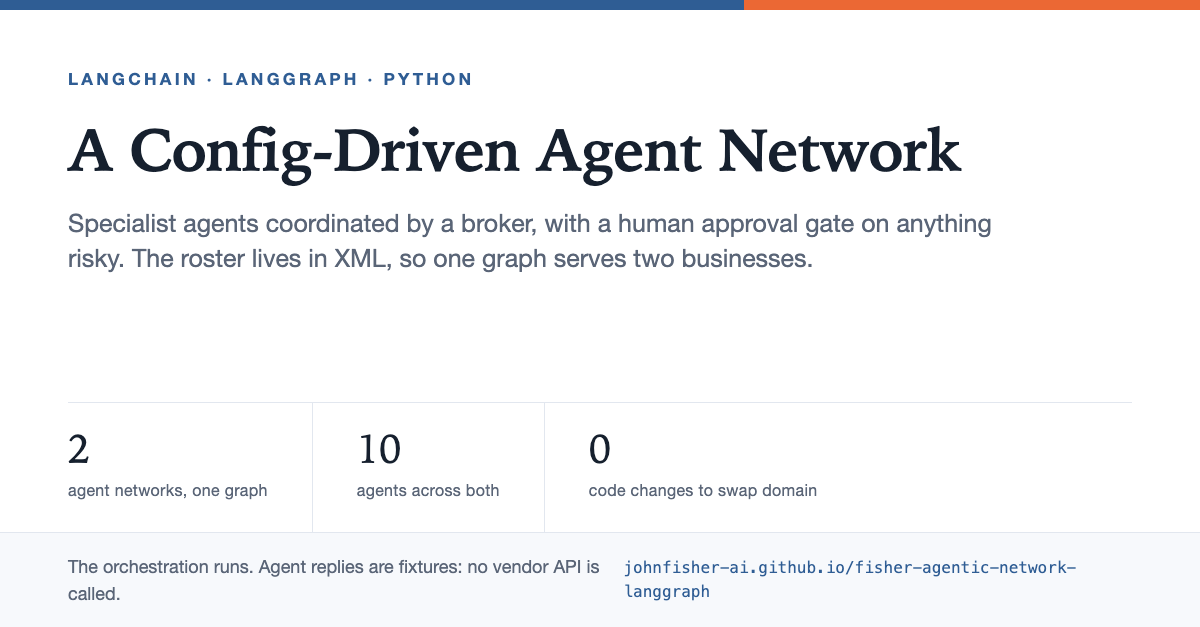
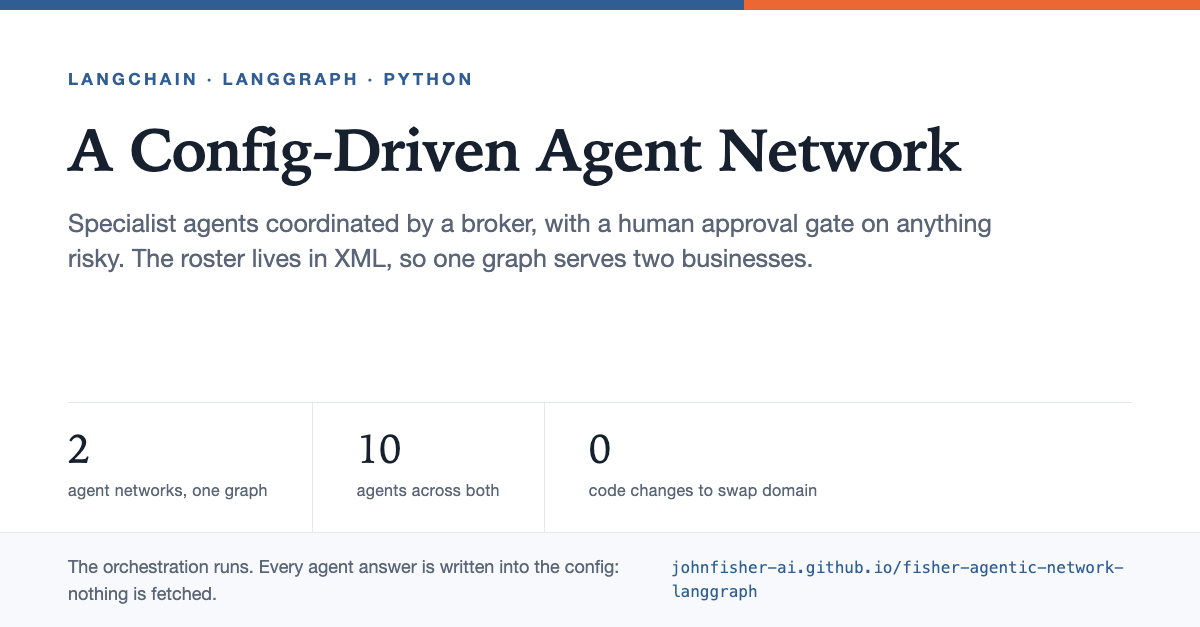
Say it in plain words, and say why it matters
The site used 'fixture' seventeen times. It is testing jargon, and a
reader who does not write tests has no way to guess it. Worse, the code
never used the word: the XML says mock_data, the Python says replies,
and the prose said fixture, so a reader met three names for one thing
and had to reconcile them alone.

The claim now reads that every agent's answer is written into the config
file in advance, and names the mock_data block they will actually see.
Where a short term is still wanted the pages say canned reply, which
needs no glossary.

The callout also now says why. Wired to live systems this network would
read real rates, booking records and guest reviews and forward them to a
language model. With the answers written in advance, the only things
leaving the machine are the typed question and text anyone can read in
the repository, which is also what makes a run repeatable enough to
test with no key and no network.

Applied to all four pages, the README, the social card, two source
docstrings and the diagram label, since the pages quote the source. The
architecture anchor is renamed to match its heading.

Changed region(s): [[0.2158, 0.8788, 0.925, 0.9697], [0.0617, 0.9394, 0.185, 0.9697]]

diff --git a/public/index.html b/public/index.html
@@ -53,12 +53,11 @@
     </div>
 
     <div class="note">
-      <p><strong>What is real, and what is not.</strong> The orchestration runs: the LangGraph state machine, the routing, the synthesis and the human gate all execute against <code>gpt-4o</code>. <strong>Every agent response is a fixture read from the XML.</strong> No vendor API is called, and no MCP server exists.
+      <p><strong>What is real, and what is not.</strong> The orchestration runs: the LangGraph state machine, the routing, the synthesis and the human gate all execute against <code>gpt-4o</code>. <strong>Every agent's answer is written into the config file in advance</strong>, in its <code>&lt;mock_data&gt;</code> block. Nothing is fetched: no vendor API is called, and no MCP server exists.
       The design notes name candidate integrations, rate-shopping feeds, property management
       systems, flight capacity data; none of them are built.</p>
-      <p>That is deliberate. Canned agent replies keep the demo deterministic and nearly free to
-      run, so the orchestration is the thing under examination rather than five integrations.
-      This is a study of a pattern, not a product, and nothing here evidences a business
+      <p>That is a data-protection decision before it is a convenience one. Wired to live systems, a network like this would read real rates, booking records and guest reviews, and forward whatever it found to a language model. With every answer written in advance, the only things that leave your machine are the question you type and text you can read in this repository. It also makes a run repeatable, which is what lets the test suite exercise the real graph with no key, no network and nothing spent.</p>
+      <p>This is a study of a pattern, not a product, and nothing here evidences a business
       outcome.</p>
     </div>
   </section>
@@ -72,11 +71,11 @@
     agent could have reached alone, and it scores the risk of its own recommendation.</p>
 
     <figure>
-      <div class="figbox"><svg class="fig diagram" viewBox="0 0 780 500" role="img" aria-label="One question through the network. The broker decides who to consult, waits, synthesises, and scores the risk of its own recommendation."><defs><marker id="ah" viewBox="0 0 10 10" refX="9" refY="5" markerWidth="6" markerHeight="6" orient="auto-start-reverse"><path class="ahead" d="M 0 0 L 10 5 L 0 10 z"/></marker></defs><text class="ttl" x="0" y="16">One question through the network</text><text class="sub" x="0" y="33">The broker decides who to consult, waits, synthesises, and scores the risk of its own recommendation.</text><rect class="node soft" x="320.0" y="52" width="140" height="30" rx="8"/><text class="lab bold" x="390.0" y="71.0" text-anchor="middle">a question</text><line class="flow" x1="390.0" y1="82" x2="390.0" y2="100" marker-end="url(#ah)"/><rect class="node lead" x="260.0" y="102" width="260" height="44" rx="8"/><text class="lab bold" x="390.0" y="121.0" text-anchor="middle">BROKER</text><text class="ax" x="390.0" y="136.0" text-anchor="middle">decides who to consult</text><line class="flow" x1="390.0" y1="146" x2="130.0" y2="204" marker-end="url(#ah)"/><rect class="node" x="70.0" y="206" width="120" height="46" rx="8"/><text class="lab bold" x="130.0" y="226.0" text-anchor="middle">Market Scout</text><text class="ax" x="130.0" y="241.0" text-anchor="middle">events, weather</text><line class="flow" x1="130.0" y1="252" x2="390.0" y2="294" marker-end="url(#ah)"/><line class="flow" x1="390.0" y1="146" x2="260.0" y2="204" marker-end="url(#ah)"/><rect class="node" x="200.0" y="206" width="120" height="46" rx="8"/><text class="lab bold" x="260.0" y="226.0" text-anchor="middle">Revenue</text><text class="ax" x="260.0" y="241.0" text-anchor="middle">pricing, rates</text><line class="flow" x1="260.0" y1="252" x2="390.0" y2="294" marker-end="url(#ah)"/><line class="flow" x1="390.0" y1="146" x2="390.0" y2="204" marker-end="url(#ah)"/><rect class="node" x="330.0" y="206" width="120" height="46" rx="8"/><text class="lab bold" x="390.0" y="226.0" text-anchor="middle">Content</text><text class="ax" x="390.0" y="241.0" text-anchor="middle">listing quality</text><line class="flow" x1="390.0" y1="252" x2="390.0" y2="294" marker-end="url(#ah)"/><line class="flow" x1="390.0" y1="146" x2="520.0" y2="204" marker-end="url(#ah)"/><rect class="node" x="460.0" y="206" width="120" height="46" rx="8"/><text class="lab bold" x="520.0" y="226.0" text-anchor="middle">Guest Exp.</text><text class="ax" x="520.0" y="241.0" text-anchor="middle">reviews</text><line class="flow" x1="520.0" y1="252" x2="390.0" y2="294" marker-end="url(#ah)"/><line class="flow" x1="390.0" y1="146" x2="650.0" y2="204" marker-end="url(#ah)"/><rect class="node" x="590.0" y="206" width="120" height="46" rx="8"/><text class="lab bold" x="650.0" y="226.0" text-anchor="middle">Facilities</text><text class="ax" x="650.0" y="241.0" text-anchor="middle">maintenance</text><line class="flow" x1="650.0" y1="252" x2="390.0" y2="294" marker-end="url(#ah)"/><text class="ax" x="390.0" y="274" text-anchor="middle">the specialists run in parallel, each returning its fixture</text><rect class="node lead" x="260.0" y="296" width="260" height="44" rx="8"/><text class="lab bold" x="390.0" y="315.0" text-anchor="middle">BROKER</text><text class="ax" x="390.0" y="330.0" text-anchor="middle">synthesises, scores risk</text><line class="flow" x1="390.0" y1="340" x2="390.0" y2="364" marker-end="url(#ah)"/><text class="ax" x="400.0" y="358">risk rule fires?</text><path class="flow" d="M 390 364 L 250 364 L 250 424" marker-end="url(#ah)"/><text class="ax" x="256" y="380">no</text><path class="flow" d="M 390 364 L 530 364 L 530 376" marker-end="url(#ah)"/><text class="ax" x="536" y="380">yes</text><rect class="node gate" x="440" y="378" width="180" height="32" rx="8"/><text class="lab bold" x="530.0" y="398.0" text-anchor="middle">HUMAN APPROVAL</text><path class="flow" d="M 530 410 L 530 439 L 322 439" marker-end="url(#ah)"/><text class="ax" x="530" y="468" text-anchor="middle">the approved text is returned verbatim</text><rect class="node soft" x="190" y="424" width="130" height="30" rx="8"/><text class="lab bold" x="255.0" y="443.0" text-anchor="middle">the answer</text></svg></div>
+      <div class="figbox"><svg class="fig diagram" viewBox="0 0 780 500" role="img" aria-label="One question through the network. The broker decides who to consult, waits, synthesises, and scores the risk of its own recommendation."><defs><marker id="ah" viewBox="0 0 10 10" refX="9" refY="5" markerWidth="6" markerHeight="6" orient="auto-start-reverse"><path class="ahead" d="M 0 0 L 10 5 L 0 10 z"/></marker></defs><text class="ttl" x="0" y="16">One question through the network</text><text class="sub" x="0" y="33">The broker decides who to consult, waits, synthesises, and scores the risk of its own recommendation.</text><rect class="node soft" x="320.0" y="52" width="140" height="30" rx="8"/><text class="lab bold" x="390.0" y="71.0" text-anchor="middle">a question</text><line class="flow" x1="390.0" y1="82" x2="390.0" y2="100" marker-end="url(#ah)"/><rect class="node lead" x="260.0" y="102" width="260" height="44" rx="8"/><text class="lab bold" x="390.0" y="121.0" text-anchor="middle">BROKER</text><text class="ax" x="390.0" y="136.0" text-anchor="middle">decides who to consult</text><line class="flow" x1="390.0" y1="146" x2="130.0" y2="204" marker-end="url(#ah)"/><rect class="node" x="70.0" y="206" width="120" height="46" rx="8"/><text class="lab bold" x="130.0" y="226.0" text-anchor="middle">Market Scout</text><text class="ax" x="130.0" y="241.0" text-anchor="middle">events, weather</text><line class="flow" x1="130.0" y1="252" x2="390.0" y2="294" marker-end="url(#ah)"/><line class="flow" x1="390.0" y1="146" x2="260.0" y2="204" marker-end="url(#ah)"/><rect class="node" x="200.0" y="206" width="120" height="46" rx="8"/><text class="lab bold" x="260.0" y="226.0" text-anchor="middle">Revenue</text><text class="ax" x="260.0" y="241.0" text-anchor="middle">pricing, rates</text><line class="flow" x1="260.0" y1="252" x2="390.0" y2="294" marker-end="url(#ah)"/><line class="flow" x1="390.0" y1="146" x2="390.0" y2="204" marker-end="url(#ah)"/><rect class="node" x="330.0" y="206" width="120" height="46" rx="8"/><text class="lab bold" x="390.0" y="226.0" text-anchor="middle">Content</text><text class="ax" x="390.0" y="241.0" text-anchor="middle">listing quality</text><line class="flow" x1="390.0" y1="252" x2="390.0" y2="294" marker-end="url(#ah)"/><line class="flow" x1="390.0" y1="146" x2="520.0" y2="204" marker-end="url(#ah)"/><rect class="node" x="460.0" y="206" width="120" height="46" rx="8"/><text class="lab bold" x="520.0" y="226.0" text-anchor="middle">Guest Exp.</text><text class="ax" x="520.0" y="241.0" text-anchor="middle">reviews</text><line class="flow" x1="520.0" y1="252" x2="390.0" y2="294" marker-end="url(#ah)"/><line class="flow" x1="390.0" y1="146" x2="650.0" y2="204" marker-end="url(#ah)"/><rect class="node" x="590.0" y="206" width="120" height="46" rx="8"/><text class="lab bold" x="650.0" y="226.0" text-anchor="middle">Facilities</text><text class="ax" x="650.0" y="241.0" text-anchor="middle">maintenance</text><line class="flow" x1="650.0" y1="252" x2="390.0" y2="294" marker-end="url(#ah)"/><text class="ax" x="390.0" y="274" text-anchor="middle">the specialists run in parallel, each returning its canned reply</text><rect class="node lead" x="260.0" y="296" width="260" height="44" rx="8"/><text class="lab bold" x="390.0" y="315.0" text-anchor="middle">BROKER</text><text class="ax" x="390.0" y="330.0" text-anchor="middle">synthesises, scores risk</text><line class="flow" x1="390.0" y1="340" x2="390.0" y2="364" marker-end="url(#ah)"/><text class="ax" x="400.0" y="358">risk rule fires?</text><path class="flow" d="M 390 364 L 250 364 L 250 424" marker-end="url(#ah)"/><text class="ax" x="256" y="380">no</text><path class="flow" d="M 390 364 L 530 364 L 530 376" marker-end="url(#ah)"/><text class="ax" x="536" y="380">yes</text><rect class="node gate" x="440" y="378" width="180" height="32" rx="8"/><text class="lab bold" x="530.0" y="398.0" text-anchor="middle">HUMAN APPROVAL</text><path class="flow" d="M 530 410 L 530 439 L 322 439" marker-end="url(#ah)"/><text class="ax" x="530" y="468" text-anchor="middle">the approved text is returned verbatim</text><rect class="node soft" x="190" y="424" width="130" height="30" rx="8"/><text class="lab bold" x="255.0" y="443.0" text-anchor="middle">the answer</text></svg></div>
       <figcaption>Figure 1. The broker fans out to the specialists it selected, fans back in, and
       routes to a human only when its own risk rule fires. Two calls to the model per question,
-      one to route and one to synthesise; the specialists cost nothing because their answers are
-      fixtures.</figcaption>
+      one to route and one to synthesise; the specialists cost nothing, because their answers were
+      written in advance.</figcaption>
     </figure>
   </section>
 

diff --git a/public/code.html b/public/code.html
@@ -44,19 +44,17 @@
     does not know which domain it is running.</p>
 
     <div class="note">
-      <p><strong>What is real, and what is not.</strong> The orchestration runs: the LangGraph state machine, the routing, the synthesis and the human gate all execute against <code>gpt-4o</code>. <strong>Every agent response is a fixture read from the XML.</strong> No vendor API is called, and no MCP server exists.
-      Every <code>response</code> element you see below is canned text, not a call. That keeps
-      the demo deterministic and nearly free to run, and it means the seam where a real
-      integration would attach is a single method,
-      <code>Agent.reply_for</code>.</p>
+      <p><strong>What is real, and what is not.</strong> The orchestration runs: the LangGraph state machine, the routing, the synthesis and the human gate all execute against <code>gpt-4o</code>. <strong>Every agent's answer is written into the config file in advance</strong>, in its <code>&lt;mock_data&gt;</code> block. Nothing is fetched: no vendor API is called, and no MCP server exists.
+      Every <code>response</code> element below is text somebody typed, not a call.</p>
+      <p>That is a data-protection decision before it is a convenience one. Wired to live systems, a network like this would read real rates, booking records and guest reviews, and forward whatever it found to a language model. With every answer written in advance, the only things that leave your machine are the question you type and text you can read in this repository. It also makes a run repeatable, which is what lets the test suite exercise the real graph with no key, no network and nothing spent.</p>
     </div>
 
     <div class="scroll">
       <table class="stats">
         <thead><tr><th>File</th><th class="num">Lines</th><th>What it does</th></tr></thead>
-        <tbody><tr><td class="item"><code>agentic_network/config.py</code></td><td class="num">119</td><td>Parses a config into dataclasses and picks a scenario.</td></tr><tr><td class="item"><code>agentic_network/graph.py</code></td><td class="num">197</td><td>Builds and compiles the state machine. The core.</td></tr><tr><td class="item"><code>agentic_network/channels.py</code></td><td class="num">108</td><td>Where output goes and where human answers come from.</td></tr><tr><td class="item"><code>agentic_network/cli.py</code></td><td class="num">67</td><td>Headless entry point. What the notebook and Colab use.</td></tr><tr><td class="item"><code>agentic_network/gui.py</code></td><td class="num">204</td><td>The tkinter desktop client.</td></tr><tr><td class="item"><code>agentic_network/__init__.py</code></td><td class="num">22</td><td>The public surface: three names.</td></tr><tr><td class="item"><code>tests/test_network.py</code></td><td class="num">112</td><td>Nineteen checks against a stub model. No key needed.</td></tr><tr><td class="item"><code>config/config_travel.xml</code></td><td class="num">105</td><td>The travel partner network.</td></tr><tr><td class="item"><code>config/config_agency.xml</code></td><td class="num">114</td><td>The consulting firm.</td></tr></tbody>
+        <tbody><tr><td class="item"><code>agentic_network/config.py</code></td><td class="num">120</td><td>Parses a config into dataclasses and picks a scenario.</td></tr><tr><td class="item"><code>agentic_network/graph.py</code></td><td class="num">197</td><td>Builds and compiles the state machine. The core.</td></tr><tr><td class="item"><code>agentic_network/channels.py</code></td><td class="num">108</td><td>Where output goes and where human answers come from.</td></tr><tr><td class="item"><code>agentic_network/cli.py</code></td><td class="num">67</td><td>Headless entry point. What the notebook and Colab use.</td></tr><tr><td class="item"><code>agentic_network/gui.py</code></td><td class="num">204</td><td>The tkinter desktop client.</td></tr><tr><td class="item"><code>agentic_network/__init__.py</code></td><td class="num">22</td><td>The public surface: three names.</td></tr><tr><td class="item"><code>tests/test_network.py</code></td><td class="num">112</td><td>Nineteen checks against a stub model. No key needed.</td></tr><tr><td class="item"><code>config/config_travel.xml</code></td><td class="num">105</td><td>The travel partner network.</td></tr><tr><td class="item"><code>config/config_agency.xml</code></td><td class="num">114</td><td>The consulting firm.</td></tr></tbody>
         <tfoot><tr><td class="item"><strong>Total</strong></td>
-          <td class="num"><strong>1048</strong></td><td></td></tr></tfoot>
+          <td class="num"><strong>1049</strong></td><td></td></tr></tfoot>
       </table>
     </div>
   </section>
@@ -64,7 +62,7 @@
   <section>
     <h2>What a config declares</h2>
     <p>Four things: the prompt the broker routes with, the prompt it synthesises and scores risk
-    with, the scenarios that select which fixture each agent returns, and the agents
+    with, the scenarios that select which reply each agent returns, and the agents
     themselves.</p>
 
     <div class="codewrap"><div class="head"><code>config/config_travel.xml</code><span>one agent</span></div><pre class="code"><span class="sas-k">&lt;agent</span> <span class="sas-p">id</span>=<span class="sas-s">&quot;revenue_strategist&quot;</span> <span class="sas-p">name</span>=<span class="sas-s">&quot;Revenue Strategist&quot;</span><span class="sas-k">&gt;</span>
@@ -80,7 +78,7 @@
 
     <p>The <code>description</code> is the only thing the broker sees when it decides who to
     consult, so it is doing real work despite being three words. Each
-    <code>response</code> is the fixture that agent returns for one scenario, and
+    <code>response</code> is the reply that agent gives for one scenario, and
     <code>default</code> covers anything unmatched.</p>
 
     <p>Scenarios are keyword lists. A question is tested against them in document order and the
@@ -128,7 +126,7 @@
               <td>Market Intelligence Analyst<br>Financial Modeler<br>Organizational Strategist<br>Operations Specialist<br>Risk & Compliance Officer</td></tr>
           <tr><td class="item">Scenarios</td>
               <td>5</td><td>5</td></tr>
-          <tr><td class="item">Fixtures</td>
+          <tr><td class="item">Canned replies</td>
               <td>25</td>
               <td>25</td></tr>
           <tr><td class="item">Lines of Python that differ</td>
@@ -409,7 +407,7 @@ Shape of a run:
 
     user question
         -&gt; broker            decides which specialists to consult
-        -&gt; specialists       fan out in parallel, each returns its fixture
+        -&gt; specialists       fan out in parallel, each returns its canned reply
         -&gt; broker            synthesises one answer and scores its risk
         -&gt; human_approval    only when the risk score says so
         -&gt; END
@@ -600,7 +598,7 @@ Every node is generated from the config, so the roster is data rather than code.
         channel.log(<span class="sas-s">&quot;router named no valid agents; falling back.&quot;</span>)
         <span class="sas-k">return</span> fallback
     <span class="sas-k">return</span> known</pre></div></details>
-    <details class="src"><summary>agentic_network/config.py, 119 lines</summary><div class="codewrap"><div class="head"><code>agentic_network/config.py</code></div><pre class="code clip"><span class="sas-s">&quot;&quot;&quot;Load an agent network definition from XML.
+    <details class="src"><summary>agentic_network/config.py, 120 lines</summary><div class="codewrap"><div class="head"><code>agentic_network/config.py</code></div><pre class="code clip"><span class="sas-s">&quot;&quot;&quot;Load an agent network definition from XML.
 
 One XML file describes a whole network: the prompt the broker uses to route, the
 prompt it uses to synthesise, the demo scenarios, and for each agent its identity,
@@ -626,9 +624,10 @@ its advertised capability and its canned reply per scenario.
     replies: <span class="sas-p">dict</span>[<span class="sas-p">int</span>, <span class="sas-p">str</span>] = field(default_factory=<span class="sas-p">dict</span>)
 
     <span class="sas-k">def</span> reply_for(<span class="sas-p">self</span>, scenario_id: <span class="sas-p">int</span>) -&gt; <span class="sas-p">str</span>:
-        <span class="sas-s">&quot;&quot;&quot;The fixture this agent returns for a scenario.
+        <span class="sas-s">&quot;&quot;&quot;The canned reply this agent gives for a scenario.
 
-        Every reply is canned. No agent calls a real API; see the project README.
+        Every reply is written into the config in advance. No agent calls a real
+        API, so no live business data passes through this network.
         &quot;&quot;&quot;</span>
         <span class="sas-k">return</span> <span class="sas-p">self</span>.replies.get(scenario_id, <span class="sas-p">self</span>.default_reply)
 

diff --git a/public/architecture.html b/public/architecture.html
@@ -46,11 +46,12 @@
     the difference.</p>
 
     <div class="note">
-      <p><strong>What is real, and what is not.</strong> The orchestration runs: the LangGraph state machine, the routing, the synthesis and the human gate all execute against <code>gpt-4o</code>. <strong>Every agent response is a fixture read from the XML.</strong> No vendor API is called, and no MCP server exists.
+      <p><strong>What is real, and what is not.</strong> The orchestration runs: the LangGraph state machine, the routing, the synthesis and the human gate all execute against <code>gpt-4o</code>. <strong>Every agent's answer is written into the config file in advance</strong>, in its <code>&lt;mock_data&gt;</code> block. Nothing is fetched: no vendor API is called, and no MCP server exists.
       Every specialist node on this page does one thing: it looks up a string in the config and
       returns it. The seam where a live integration would attach is
-      <a href="#fixtures"><code>Agent.reply_for</code></a>, and nothing above it, not the graph,
+      <a href="#answers"><code>Agent.reply_for</code></a>, and nothing above it, not the graph,
       not the routing, not the gate, would need to change.</p>
+      <p>That is a data-protection decision before it is a convenience one. Wired to live systems, a network like this would read real rates, booking records and guest reviews, and forward whatever it found to a language model. With every answer written in advance, the only things that leave your machine are the question you type and text you can read in this repository. It also makes a run repeatable, which is what lets the test suite exercise the real graph with no key, no network and nothing spent.</p>
     </div>
   </section>
 
@@ -81,8 +82,8 @@
   <section>
     <h2>Nodes are generated, not written</h2>
     <p>Each agent in the config becomes a node through a closure that captures its own
-    definition. The node itself does almost nothing: it looks up the fixture for the current
-    scenario and returns it under the agent's name.</p>
+    definition. The node itself does almost nothing: it looks up the canned reply for the
+    current scenario and returns it under the agent's name.</p>
 
     <pre class="code"><span class="sas-k">def</span> specialist(agent_id: <span class="sas-p">str</span>):
     agent = config.agents[agent_id]
@@ -158,7 +159,7 @@ graph.add_edge(<span class="sas-s">&quot;human_approval&quot;</span>, END)</pre>
 
   <section>
     <h2>Scenario selection</h2>
-    <p>Which fixture an agent returns depends on the scenario, matched by keyword against the
+    <p>Which canned reply an agent returns depends on the scenario, matched by keyword against the
     question. It is the least clever part of the system and the place where
     imprecision is hardest to notice.</p>
 
@@ -262,11 +263,11 @@ graph.add_edge(<span class="sas-s">&quot;human_approval&quot;</span>, END)</pre>
     gate, so the test suite asserts that the proposal text survives verbatim into the final
     output, and that synthesis runs exactly once.</p>
 
-  <section id="fixtures">
-    <h2>Where the fixtures sit</h2>
+  <section id="answers">
+    <h2>Where the canned answers sit</h2>
     <p>Each agent carries a default reply and one per scenario. The node returns a string; it
-    never parses it. The model receives the fixtures as text and does the interpreting, which is
-    why a fixture can be JSON-shaped without being contractually JSON.</p>
+    never parses it. The model receives these as text and does the interpreting, which is
+    why a reply can be JSON-shaped without being contractually JSON.</p>
 
     <pre class="code"><span class="sas-k">&lt;agent</span> <span class="sas-p">id</span>=<span class="sas-s">&quot;market_scout&quot;</span> <span class="sas-p">name</span>=<span class="sas-s">&quot;Market Scout&quot;</span><span class="sas-k">&gt;</span>
     <span class="sas-k">&lt;description</span><span class="sas-k">&gt;</span>events, weather<span class="sas-k">&lt;/description</span><span class="sas-k">&gt;</span>
@@ -284,9 +285,10 @@ graph.add_edge(<span class="sas-s">&quot;human_approval&quot;</span>, END)</pre>
     something else. Nothing above it changes: not the graph, not the routing, not the gate.</p>
 
     <pre class="code"><span class="sas-k">def</span> reply_for(<span class="sas-p">self</span>, scenario_id: <span class="sas-p">int</span>) -&gt; <span class="sas-p">str</span>:
-    <span class="sas-s">&quot;&quot;&quot;The fixture this agent returns for a scenario.
+    <span class="sas-s">&quot;&quot;&quot;The canned reply this agent gives for a scenario.
 
-    Every reply is canned. No agent calls a real API; see the project README.
+    Every reply is written into the config in advance. No agent calls a real
+    API, so no live business data passes through this network.
     &quot;&quot;&quot;</span>
     <span class="sas-k">return</span> <span class="sas-p">self</span>.replies.get(scenario_id, <span class="sas-p">self</span>.default_reply)</pre>
   </section>

diff --git a/public/run.html b/public/run.html
@@ -93,8 +93,9 @@ PASS - the new key works.</pre></div>
     <h2>What it costs</h2>
     <p>Two calls to <code>gpt-4o</code> per question: one to choose which specialists to
     consult, one to synthesise their findings and score the risk. A fraction of a cent.</p>
-    <p>The specialists themselves cost nothing. Their answers are fixtures read from the config
-    file, so the number of agents consulted does not change the bill.</p>
+    <p>The specialists themselves cost nothing. Their answers come from the config file, so the number
+    of agents consulted does not change the bill, and nothing about your question or their
+    data reaches any service other than OpenAI.</p>
   </section>
 
   <section>

diff --git a/tools/build_architecture.py b/tools/build_architecture.py
@@ -56,8 +56,9 @@ def build():
       <p><strong>What is real, and what is not.</strong> {page.FIXTURES}
       Every specialist node on this page does one thing: it looks up a string in the config and
       returns it. The seam where a live integration would attach is
-      <a href="#fixtures"><code>Agent.reply_for</code></a>, and nothing above it, not the graph,
+      <a href="#answers"><code>Agent.reply_for</code></a>, and nothing above it, not the graph,
       not the routing, not the gate, would need to change.</p>
+      <p>{page.WHY}</p>
     </div>
   </section>
 
@@ -79,8 +80,8 @@ def build():
   <section>
     <h2>Nodes are generated, not written</h2>
     <p>Each agent in the config becomes a node through a closure that captures its own
-    definition. The node itself does almost nothing: it looks up the fixture for the current
-    scenario and returns it under the agent's name.</p>
+    definition. The node itself does almost nothing: it looks up the canned reply for the
+    current scenario and returns it under the agent's name.</p>
 
     {py(excerpt.named("agentic_network/graph.py", "build_network", inner="specialist"))}
 
@@ -117,7 +118,7 @@ def build():
 
   <section>
     <h2>Scenario selection</h2>
-    <p>Which fixture an agent returns depends on the scenario, matched by keyword against the
+    <p>Which canned reply an agent returns depends on the scenario, matched by keyword against the
     question. It is the least clever part of the system and the place where
     imprecision is hardest to notice.</p>
 
@@ -174,11 +175,11 @@ def build():
     gate, so the test suite asserts that the proposal text survives verbatim into the final
     output, and that synthesis runs exactly once.</p>
 
-  <section id="fixtures">
-    <h2>Where the fixtures sit</h2>
+  <section id="answers">
+    <h2>Where the canned answers sit</h2>
     <p>Each agent carries a default reply and one per scenario. The node returns a string; it
-    never parses it. The model receives the fixtures as text and does the interpreting, which is
-    why a fixture can be JSON-shaped without being contractually JSON.</p>
+    never parses it. The model receives these as text and does the interpreting, which is
+    why a reply can be JSON-shaped without being contractually JSON.</p>
 
     {xm(excerpt.xml_element("config/config_travel.xml", "agent", "id", "market_scout"))}
 

diff --git a/tools/build_code.py b/tools/build_code.py
@@ -71,10 +71,8 @@ def build():
 
     <div class="note">
       <p><strong>What is real, and what is not.</strong> {page.FIXTURES}
-      Every <code>response</code> element you see below is canned text, not a call. That keeps
-      the demo deterministic and nearly free to run, and it means the seam where a real
-      integration would attach is a single method,
-      <code>Agent.reply_for</code>.</p>
+      Every <code>response</code> element below is text somebody typed, not a call.</p>
+      <p>{page.WHY}</p>
     </div>
 
     <div class="scroll">
@@ -90,7 +88,7 @@ def build():
   <section>
     <h2>What a config declares</h2>
     <p>Four things: the prompt the broker routes with, the prompt it synthesises and scores risk
-    with, the scenarios that select which fixture each agent returns, and the agents
+    with, the scenarios that select which reply each agent returns, and the agents
     themselves.</p>
 
     {hl.wrap(excerpt.xml_element("config/config_travel.xml", "agent", "id", "revenue_strategist"),
@@ -98,7 +96,7 @@ def build():
 
     <p>The <code>description</code> is the only thing the broker sees when it decides who to
     consult, so it is doing real work despite being three words. Each
-    <code>response</code> is the fixture that agent returns for one scenario, and
+    <code>response</code> is the reply that agent gives for one scenario, and
     <code>default</code> covers anything unmatched.</p>
 
     <p>Scenarios are keyword lists. A question is tested against them in document order and the
@@ -124,7 +122,7 @@ def build():
               <td>{"<br>".join(a.name for a in AGENCY.agents.values())}</td></tr>
           <tr><td class="item">Scenarios</td>
               <td>{len(TRAVEL.scenarios)}</td><td>{len(AGENCY.scenarios)}</td></tr>
-          <tr><td class="item">Fixtures</td>
+          <tr><td class="item">Canned replies</td>
               <td>{sum(len(a.replies) for a in TRAVEL.agents.values())}</td>
               <td>{sum(len(a.replies) for a in AGENCY.agents.values())}</td></tr>
           <tr><td class="item">Lines of Python that differ</td>

diff --git a/tools/page.py b/tools/page.py
@@ -11,8 +11,16 @@ SITE = "https://johnfisher-ai.github.io/fisher-agentic-network-langgraph"
 REPO = "https://github.com/johnfisher-ai/fisher-agentic-network-langgraph"
 FIXTURES = ("The orchestration runs: the LangGraph state machine, the routing, the synthesis "
             "and the human gate all execute against <code>gpt-4o</code>. "
-            "<strong>Every agent response is a fixture read from the XML.</strong> "
-            "No vendor API is called, and no MCP server exists.")
+            "<strong>Every agent's answer is written into the config file in advance</strong>, "
+            "in its <code>&lt;mock_data&gt;</code> block. Nothing is fetched: no vendor API is "
+            "called, and no MCP server exists.")
+
+WHY = ("That is a data-protection decision before it is a convenience one. Wired to live "
+       "systems, a network like this would read real rates, booking records and guest reviews, "
+       "and forward whatever it found to a language model. With every answer written in "
+       "advance, the only things that leave your machine are the question you type and text you "
+       "can read in this repository. It also makes a run repeatable, which is what lets the "
+       "test suite exercise the real graph with no key, no network and nothing spent.")
 
 COLAB = ("https://colab.research.google.com/github/johnfisher-ai/"
          "fisher-agentic-network-langgraph/blob/main/notebooks/agentic_network.ipynb")

diff --git a/tools/build_index.py b/tools/build_index.py
@@ -102,9 +102,8 @@ def build():
       <p><strong>What is real, and what is not.</strong> {page.FIXTURES}
       The design notes name candidate integrations, rate-shopping feeds, property management
       systems, flight capacity data; none of them are built.</p>
-      <p>That is deliberate. Canned agent replies keep the demo deterministic and nearly free to
-      run, so the orchestration is the thing under examination rather than five integrations.
-      This is a study of a pattern, not a product, and nothing here evidences a business
+      <p>{page.WHY}</p>
+      <p>This is a study of a pattern, not a product, and nothing here evidences a business
       outcome.</p>
     </div>
   </section>
@@ -121,8 +120,8 @@ def build():
       <div class="figbox">{d}</div>
       <figcaption>Figure 1. The broker fans out to the specialists it selected, fans back in, and
       routes to a human only when its own risk rule fires. Two calls to the model per question,
-      one to route and one to synthesise; the specialists cost nothing because their answers are
-      fixtures.</figcaption>
+      one to route and one to synthesise; the specialists cost nothing, because their answers were
+      written in advance.</figcaption>
     </figure>
   </section>
 

diff --git a/tools/build_run.py b/tools/build_run.py
@@ -101,8 +101,9 @@ PASS - the new key works.''', name="output")}
     <h2>What it costs</h2>
     <p>Two calls to <code>gpt-4o</code> per question: one to choose which specialists to
     consult, one to synthesise their findings and score the risk. A fraction of a cent.</p>
-    <p>The specialists themselves cost nothing. Their answers are fixtures read from the config
-    file, so the number of agents consulted does not change the bill.</p>
+    <p>The specialists themselves cost nothing. Their answers come from the config file, so the number
+    of agents consulted does not change the bill, and nothing about your question or their
+    data reaches any service other than OpenAI.</p>
   </section>
 
   <section>

diff --git a/agentic_network/config.py b/agentic_network/config.py
@@ -24,9 +24,10 @@ class Agent:
     replies: dict[int, str] = field(default_factory=dict)
 
     def reply_for(self, scenario_id: int) -> str:
-        """The fixture this agent returns for a scenario.
+        """The canned reply this agent gives for a scenario.
 
-        Every reply is canned. No agent calls a real API; see the project README.
+        Every reply is written into the config in advance. No agent calls a real
+        API, so no live business data passes through this network.
         """
         return self.replies.get(scenario_id, self.default_reply)
 

diff --git a/tools/build_cards.py b/tools/build_cards.py
@@ -35,7 +35,7 @@ VALUES = {
     "STAT1_N": "2",           "STAT1_L": "agent networks, one graph",
     "STAT2_N": str(AGENTS),   "STAT2_L": "agents across both",
     "STAT3_N": "0",           "STAT3_L": "code changes to swap domain",
-    "FOOTNOTE": "The orchestration runs. Agent replies are fixtures: no vendor API is called.",
+    "FOOTNOTE": "The orchestration runs. Every agent answer is written into the config: nothing is fetched.",
 
     # GitHub card: four feature cards and four tags
     "CARD1_T": "Broker and specialists",

diff --git a/tools/diagram.py b/tools/diagram.py
@@ -55,7 +55,7 @@ def network_flow(agents, title, subtitle):
         o.append(_arrow(x + bw / 2, ay + 46, cx, 294))
 
     o.append(f'<text class="ax" x="{cx}" y="274" text-anchor="middle">'
-             'the specialists run in parallel, each returning its fixture</text>')
+             'the specialists run in parallel, each returning its canned reply</text>')
 
     o.append(_box(cx - 130, 296, 260, 44, "BROKER", "synthesises, scores risk", cls="node lead"))
     o.append(_arrow(cx, 340, cx, 364))
